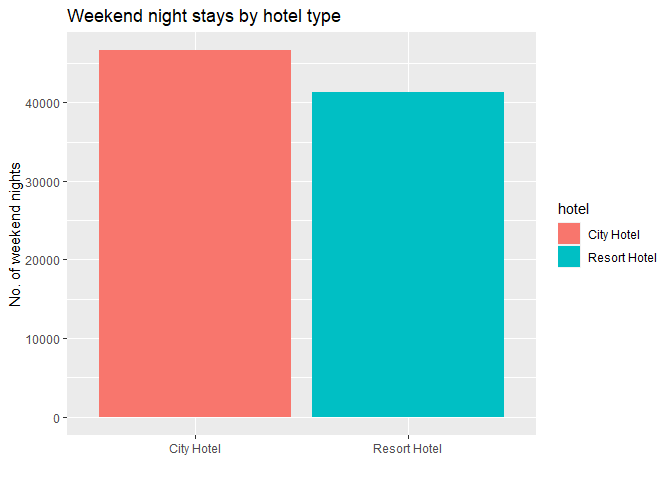
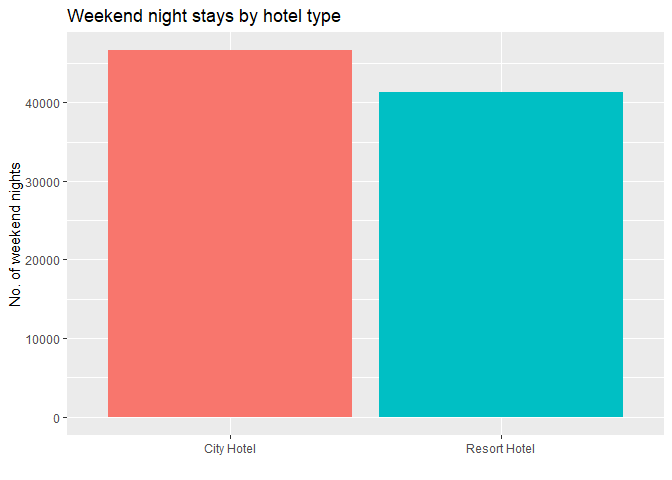
Final version

diff --git a/hotel_bookings_case_study.md b/hotel_bookings_case_study.md
@@ -1,7 +1,7 @@
 Hotel Bookings Case Study
 ================
 Anna Mándoki
-2022-11-14
+2022-11-16
 
 ## 1. Introduction
 
@@ -80,8 +80,9 @@ July of 2015 and the 31st of August 2017, including bookings that
 effectively arrived and bookings that were cancelled.
 
 The file contains 32 columns with information such as when the booking
-was made, lead time, the number of adults, children, and/or babies, meal
-plan and guest country of origin among other things.
+was made, lead time, the number of adults, children, and/or babies,
+distribution channel, meal plan and guest country of origin among other
+things.
 
 ### 3.2 Dataset location & licence
 
@@ -1346,7 +1347,7 @@ ggplot(data = hotel_bookings_v2) +
 
 ![](hotel_bookings_case_study_files/figure-gfm/monthly%20bookings%20year-1.png)<!-- -->
 
-Busiest months: May 2017, July 2017, August 2016
+- Busiest months: May 2017, July 2017, August 2016
 
 ``` r
 ggplot(data = hotel_bookings_v2) +
@@ -1509,7 +1510,8 @@ print(total_nights_h)
 ``` r
 ggplot(data = hotel_bookings_v2) +
   geom_col(mapping = aes(x = hotel, y = stays_in_weekend_nights, fill = hotel)) +
-  labs(title = "Weekend night stays by hotel type", x = " ", y = "No. of weekend nights")
+  labs(title = "Weekend night stays by hotel type", x = " ", y = "No. of weekend nights") +
+  theme(legend.position = "none")
 ```
 
 ![](hotel_bookings_case_study_files/figure-gfm/weekend%20nights%20hotel%20type%20bar%20chart-1.png)<!-- -->
